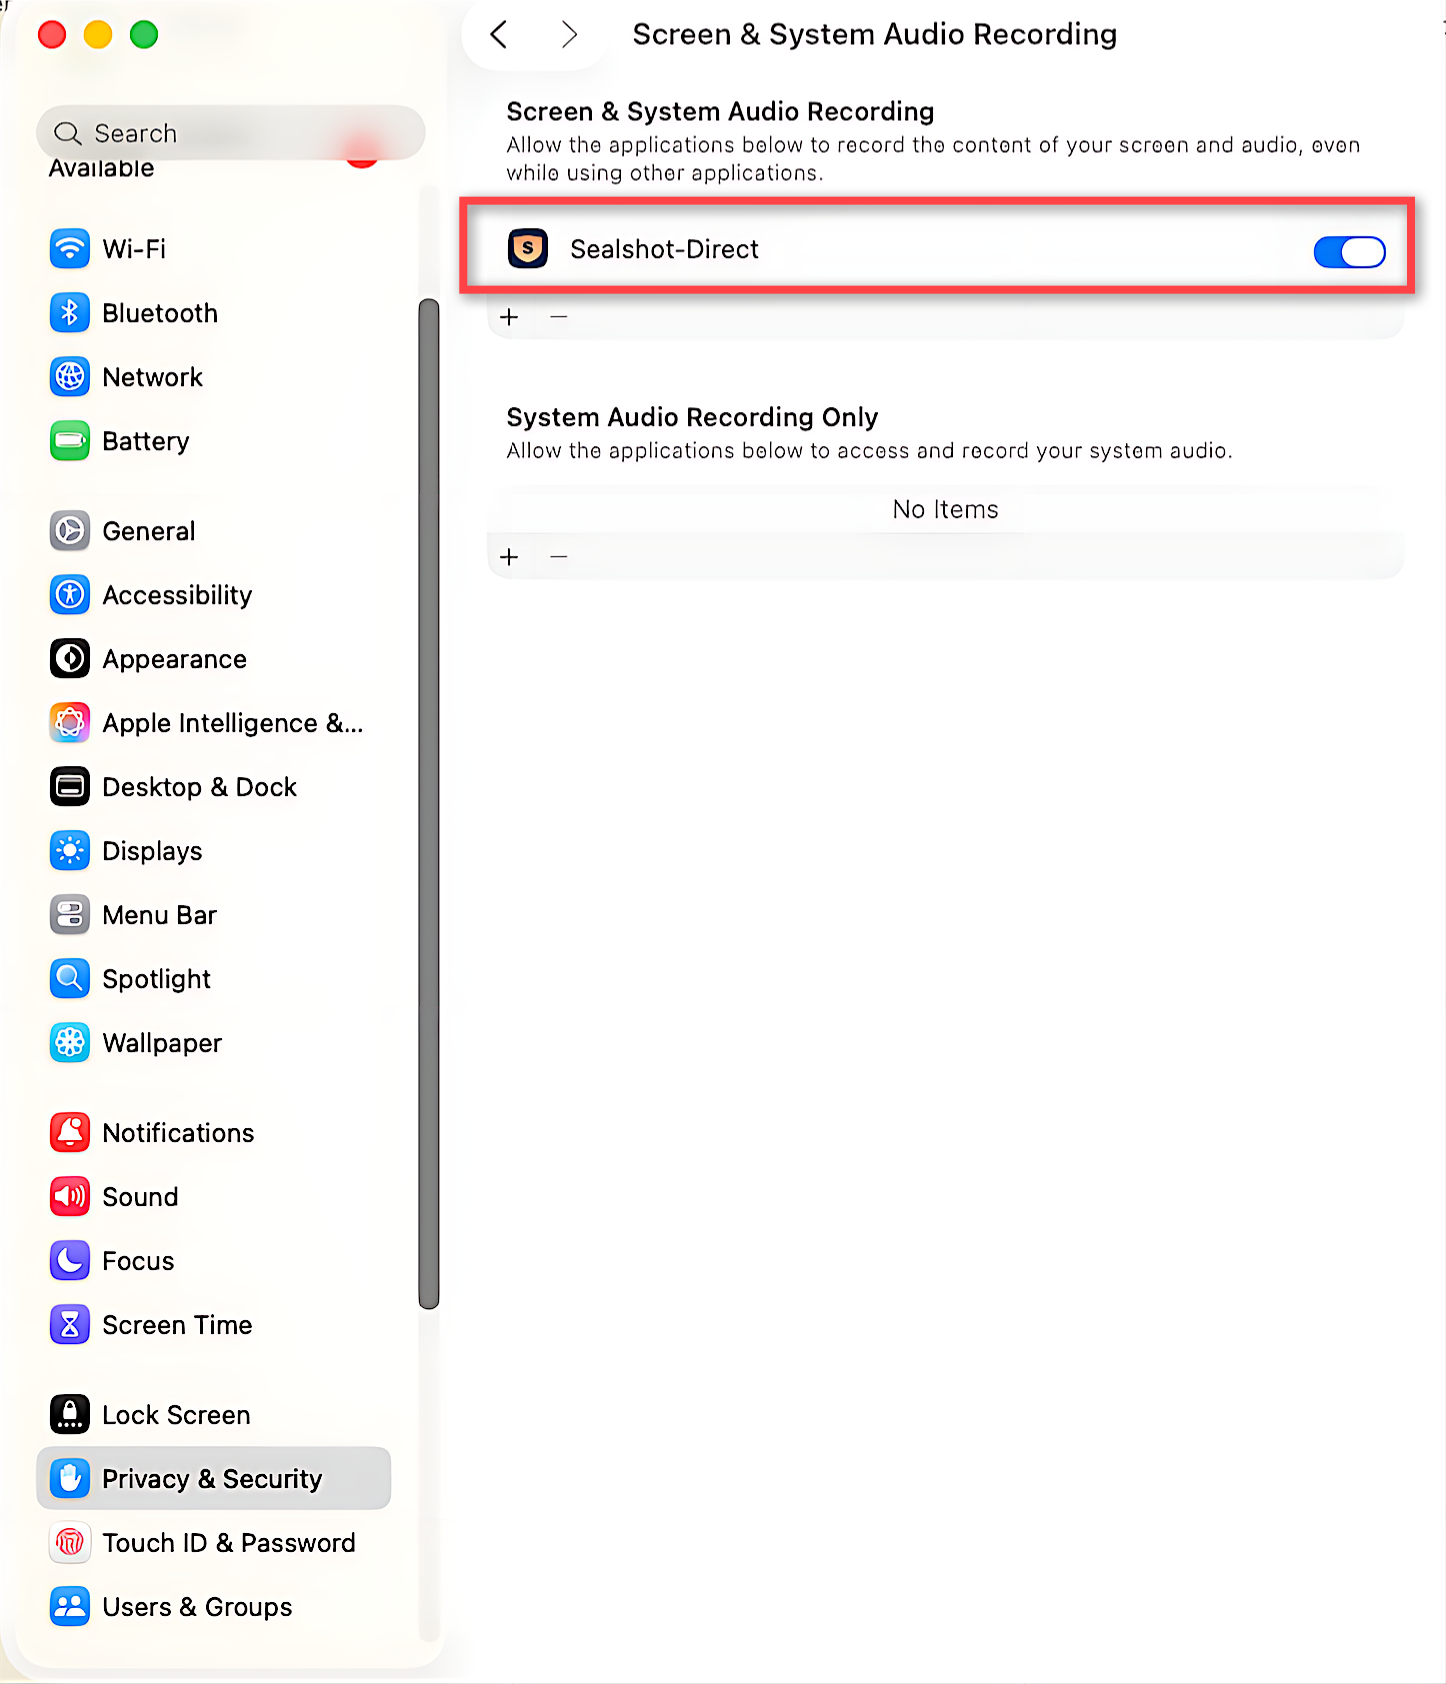
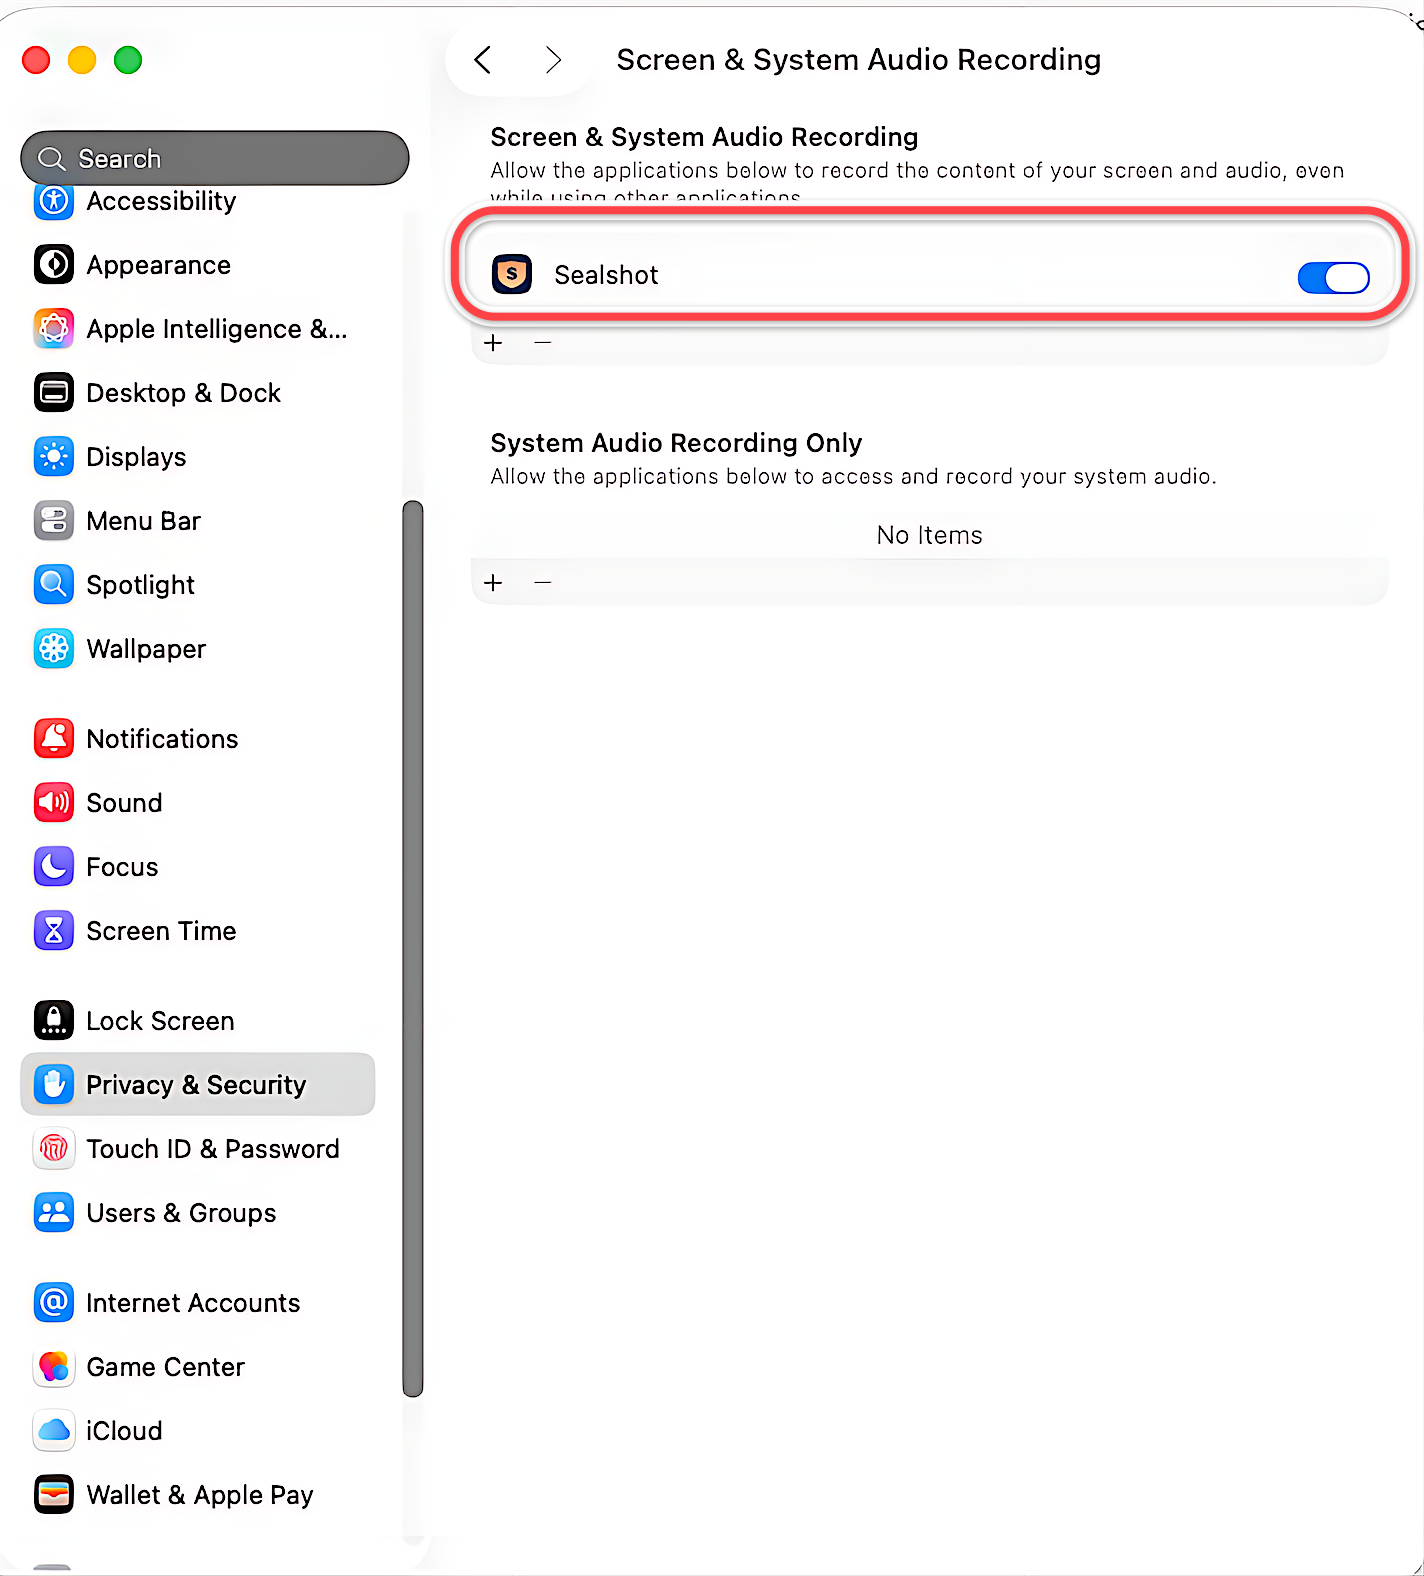
docs: recent strip moves from the Library page to the editor page
The strip is editor UI (Editor/RecentStripView.swift and friends, drawn at
the bottom of the editor window), so it was documented on the wrong page.
Section lands between the Info panel and Undo; the one inbound link
(Deliver tips) retargeted.

Also carries hand-edits made alongside: capture/recording/getting-started
wording, the library page's Quick Look section renamed to Preview, the AI
page's Smarter search heading renamed to Smart search, and a recompressed
screen-recording permission screenshot. The two heading renames changed
anchors, so the four inbound links (#quick-look x3, #smarter-search x1)
are retargeted and the hardware table row now matches the Smart search
heading.

Changed region(s): [[0.0, 0.0, 1.0, 1.0], [0.9888, 0.9949, 1.0, 1.0], [0.9888, 0.0, 1.0, 0.0311]]

diff --git a/src/content/docs/docs/guide/capture.md b/src/content/docs/docs/guide/capture.md
@@ -56,7 +56,7 @@ during the countdown to cancel.
 
 ## Scrolling capture
 
-**Default: ⌘⇧W** *(changed from ⌘⇧L in 0.7.0)*. Capture content taller than
+**Default: ⌘⇧W**. Capture content taller than
 the screen — long pages, chat threads, documents. Drag to select the scroll
 viewport; Sealshot scrolls the content and stitches the frames into a single
 seamless image.
@@ -76,18 +76,15 @@ Press **Esc** at any time to cancel.
 Capture grabs *every* on-screen window as its own layer — plus each
 display's wallpaper as the backdrop — and opens them in the
 [editor](/docs/guide/editor/#live-capture-scenes) as a stack of movable
-objects. Every window is captured **in full**, even ones buried behind
-others at the time, so you can raise a hidden window, rearrange the desktop,
-remove what you don't want, and annotate over the result.
+objects. 
 
-- **All windows, in full.** Nothing is cut off by whatever was on top —
-  each window is captured completely and sits on its own layer.
+- **All windows.** Nothing is cut off by whatever was on top —
+  each window is captured and sits on its own layer.
 - **Multi-display.** On one display it captures immediately. With several, a
-  picker opens — click a display to capture its windows and wallpaper, or
+  picker opens — click a display to capture its windows, or
   **⌘-click to capture every display** into one combined scene.
-- **In the editor**, drag windows around, bring one forward or send it back,
-  delete the ones you don't need, and **Export This Window…** to save a
-  single window on its own. See
+- **In the editor**, drag windows around or auto arrange layout, bring one forward or send it back,
+  and delete the ones you don't need. See
   [Live Capture scenes](/docs/guide/editor/#live-capture-scenes).
 
 :::note

diff --git a/src/content/docs/docs/guide/library.md b/src/content/docs/docs/guide/library.md
@@ -32,7 +32,7 @@ collections.
 Click the **star** on any capture (or in its Info panel) to add it to
 **Favorites**.
 
-## Quick Look
+## Preview
 
 Press **Space** on any selected item for an instant floating preview — no
 need to open the editor. Resize it with the **−/+ buttons** on the card or
@@ -63,17 +63,6 @@ the footer.
 Once you've selected captures you can act on the whole set — delete,
 restore, duplicate, show in Finder, add to a collection, or
 [export](/docs/guide/sharing/) — from the toolbar or the right-click menu.
-
-## The recent strip
-
-While you're editing, a **recent-captures strip** runs along the bottom of
-the window so your latest shots are one click away. Click a thumbnail to
-open it, right-click for actions, or **drag a thumbnail out** to Finder,
-Mail, or any app. Videos show a play badge — click it to play, or click the
-thumbnail to open paused.
-
-![The recent-captures strip](/manual/library-strip.png)
-*Jump between recent captures without leaving the editor.*
 
 ## Titles, tags, and the Info panel
 

diff --git a/src/content/docs/docs/guide/ai.md b/src/content/docs/docs/guide/ai.md
@@ -72,7 +72,7 @@ rather than pattern.
 - **Remove Background** cuts the subject out on device, leaving a
   transparent canvas or a background fill of your choice. Fully undoable.
 
-## Smarter search
+## Smart search
 
 On Apple Intelligence Macs, library search quietly expands your query with
 related terms — searching "invoice" can also surface captures matching
@@ -102,7 +102,7 @@ but the AI extras scale with your hardware:
 | Extract Structured Data | ✓ | ✓ | ✓ |
 | Titles & keywords | built-in fallback | built-in fallback | Apple Intelligence |
 | [Enhanced redaction model](/docs/guide/redaction/#the-enhanced-on-device-model) | — | ✓ (optional download) | ✓ (optional download) |
-| Generated summaries, smarter search, Thorough scan | — | — | ✓ |
+| Generated summaries, Smart search, Thorough scan | — | — | ✓ |
 
 On an **Intel Mac**, everything core works — capture, recording, the
 editor, OCR, search, rule-based redaction, and structured extraction — and

diff --git a/src/content/docs/docs/guide/recording.md b/src/content/docs/docs/guide/recording.md
@@ -3,7 +3,7 @@ title: Screen recording
 description: Record your screen, a window, or a region — with system audio and microphone.
 ---
 
-Sealshot records video as well as stills: the full screen, a window, or a
+Sealshot records video as well as images: the full screen, a window, or a
 region you draw, with system audio and your microphone if you want them.
 Recordings land in the same [Library](/docs/guide/library/) as your
 screenshots, protected by the same
@@ -65,5 +65,5 @@ play right in the editor. With Enhanced Security on, recordings are
 encrypted at rest like everything else.
 
 When you need a regular video file, use **File → Export to Video…** to write
-a `.mov`/`.mp4` — for one recording or a whole selection at once. See
+a `.mov` — for one recording or a whole selection at once. See
 [Sharing & export](/docs/guide/sharing/).

diff --git a/src/content/docs/docs/guide/editor.md b/src/content/docs/docs/guide/editor.md
@@ -173,6 +173,17 @@ favorite star — all editable in place. See
 [On-device AI](/docs/guide/ai/) for how the summary and keywords are
 generated.
 
+## The recent strip
+
+A **recent-captures strip** runs along the bottom of the editor so your
+latest shots are one click away. Click a thumbnail to open it, right-click
+for actions, or **drag a thumbnail out** to Finder, Mail, or any app.
+Videos show a play badge — click it to play, or click the thumbnail to
+open paused.
+
+![The recent-captures strip](/manual/library-strip.png)
+*Jump between recent captures without leaving the editor.*
+
 ## Undo that survives relaunch
 
 The editor's undo history is **persistent**: quit and relaunch, switch

diff --git a/src/content/docs/docs/tips/deliver.md b/src/content/docs/docs/tips/deliver.md
@@ -16,7 +16,7 @@ makes redaction reversible *for you*. **Share the export, never the
 ## Quick exports
 
 - **Drag straight out.** Drag a thumbnail from the
-  [recent strip](/docs/guide/library/#the-recent-strip) into Finder, Mail,
+  [recent strip](/docs/guide/editor/#the-recent-strip) into Finder, Mail,
   Slack, or any app — no save dialog, no export menu.
 - **Export a batch.** Select several captures and
   [Export to Image](/docs/guide/sharing/#plain-exports) (**⌘S**) writes them

diff --git a/src/content/docs/docs/tips/organize.md b/src/content/docs/docs/tips/organize.md
@@ -21,7 +21,7 @@ itself. These tips cover finding things fast and cleaning up safely.
 ## Filters and preview
 
 - **Space bar for an instant preview.**
-  [Quick Look](/docs/guide/library/#quick-look) any capture without opening
+  [Quick Look](/docs/guide/library/#preview) any capture without opening
   the editor; ⌘-scroll resizes the preview.
 - **Filter by tag, date, or media type.** The
   [sidebar filters](/docs/guide/library/#sections-and-filters) narrow by tag

diff --git a/src/content/docs/docs/guide/getting-started.md b/src/content/docs/docs/guide/getting-started.md
@@ -65,8 +65,7 @@ away from any app. See [Keyboard shortcuts](/docs/guide/shortcuts/).
 
 ## Your first capture
 
-Start an **area capture** and drag across the region you want. Fine-tune the
-selection with the handles, then confirm — the capture opens in the editor,
+Start an **area capture** and drag across the region you want. The capture opens in the editor,
 ready to annotate, redact, or export.
 
 From here, explore:

diff --git a/src/content/docs/docs/workflows/demonstrate.md b/src/content/docs/docs/workflows/demonstrate.md
@@ -33,7 +33,7 @@ wander into the take.
    Paused status the whole time. Stop, and the recording lands in your
    [Library](/docs/guide/library/) as a video `.seal` that plays right in
    the editor — press **Space** in the Library for a
-   [quick look](/docs/guide/library/#quick-look).
+   [quick look](/docs/guide/library/#preview).
 
    ![The Record prompt](/manual/record-prompt.png)
 
